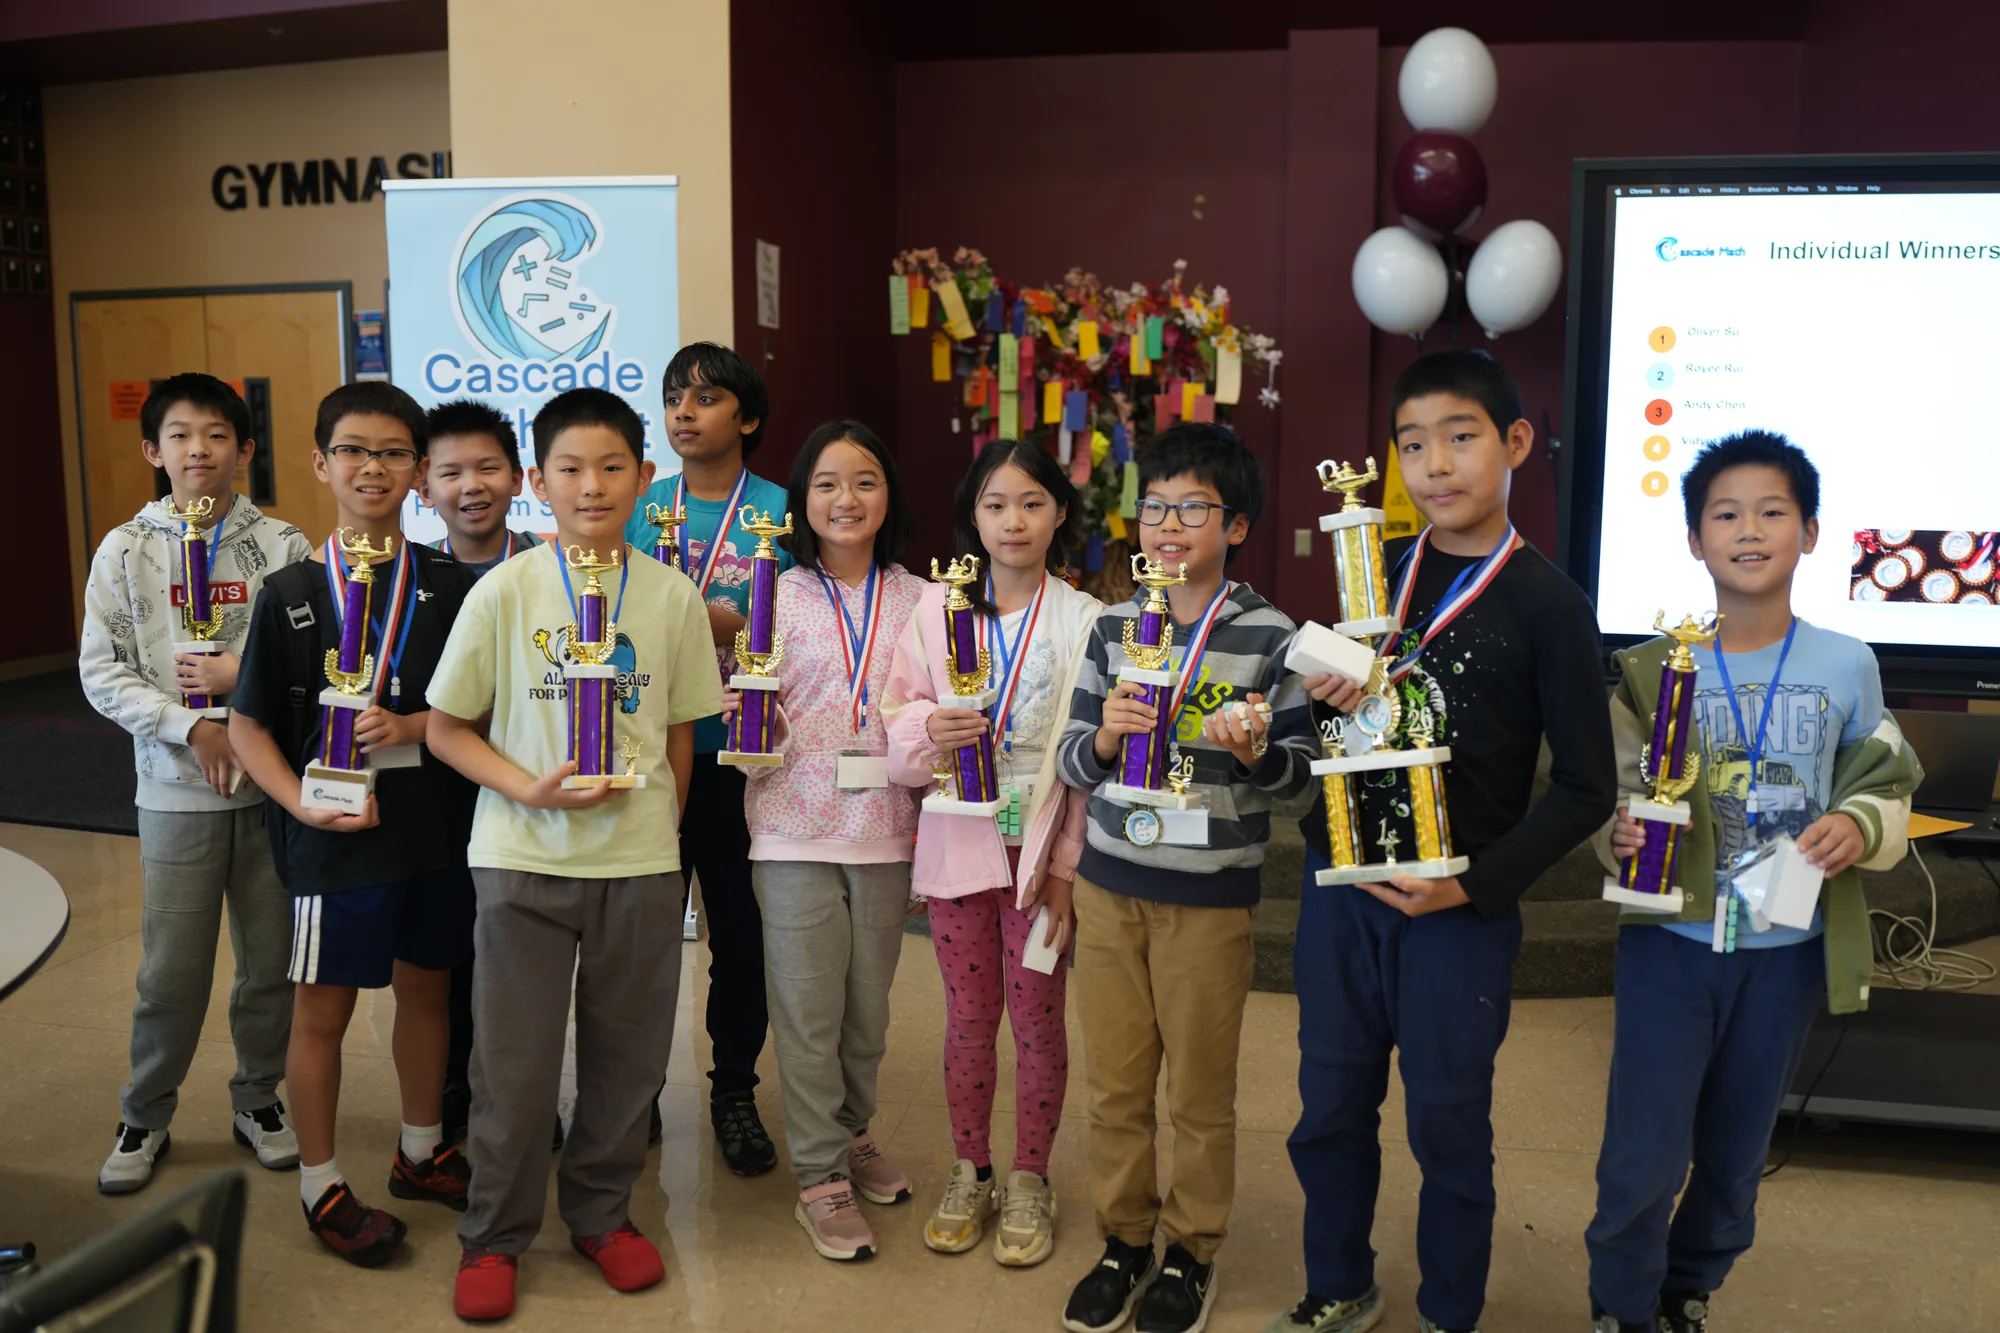
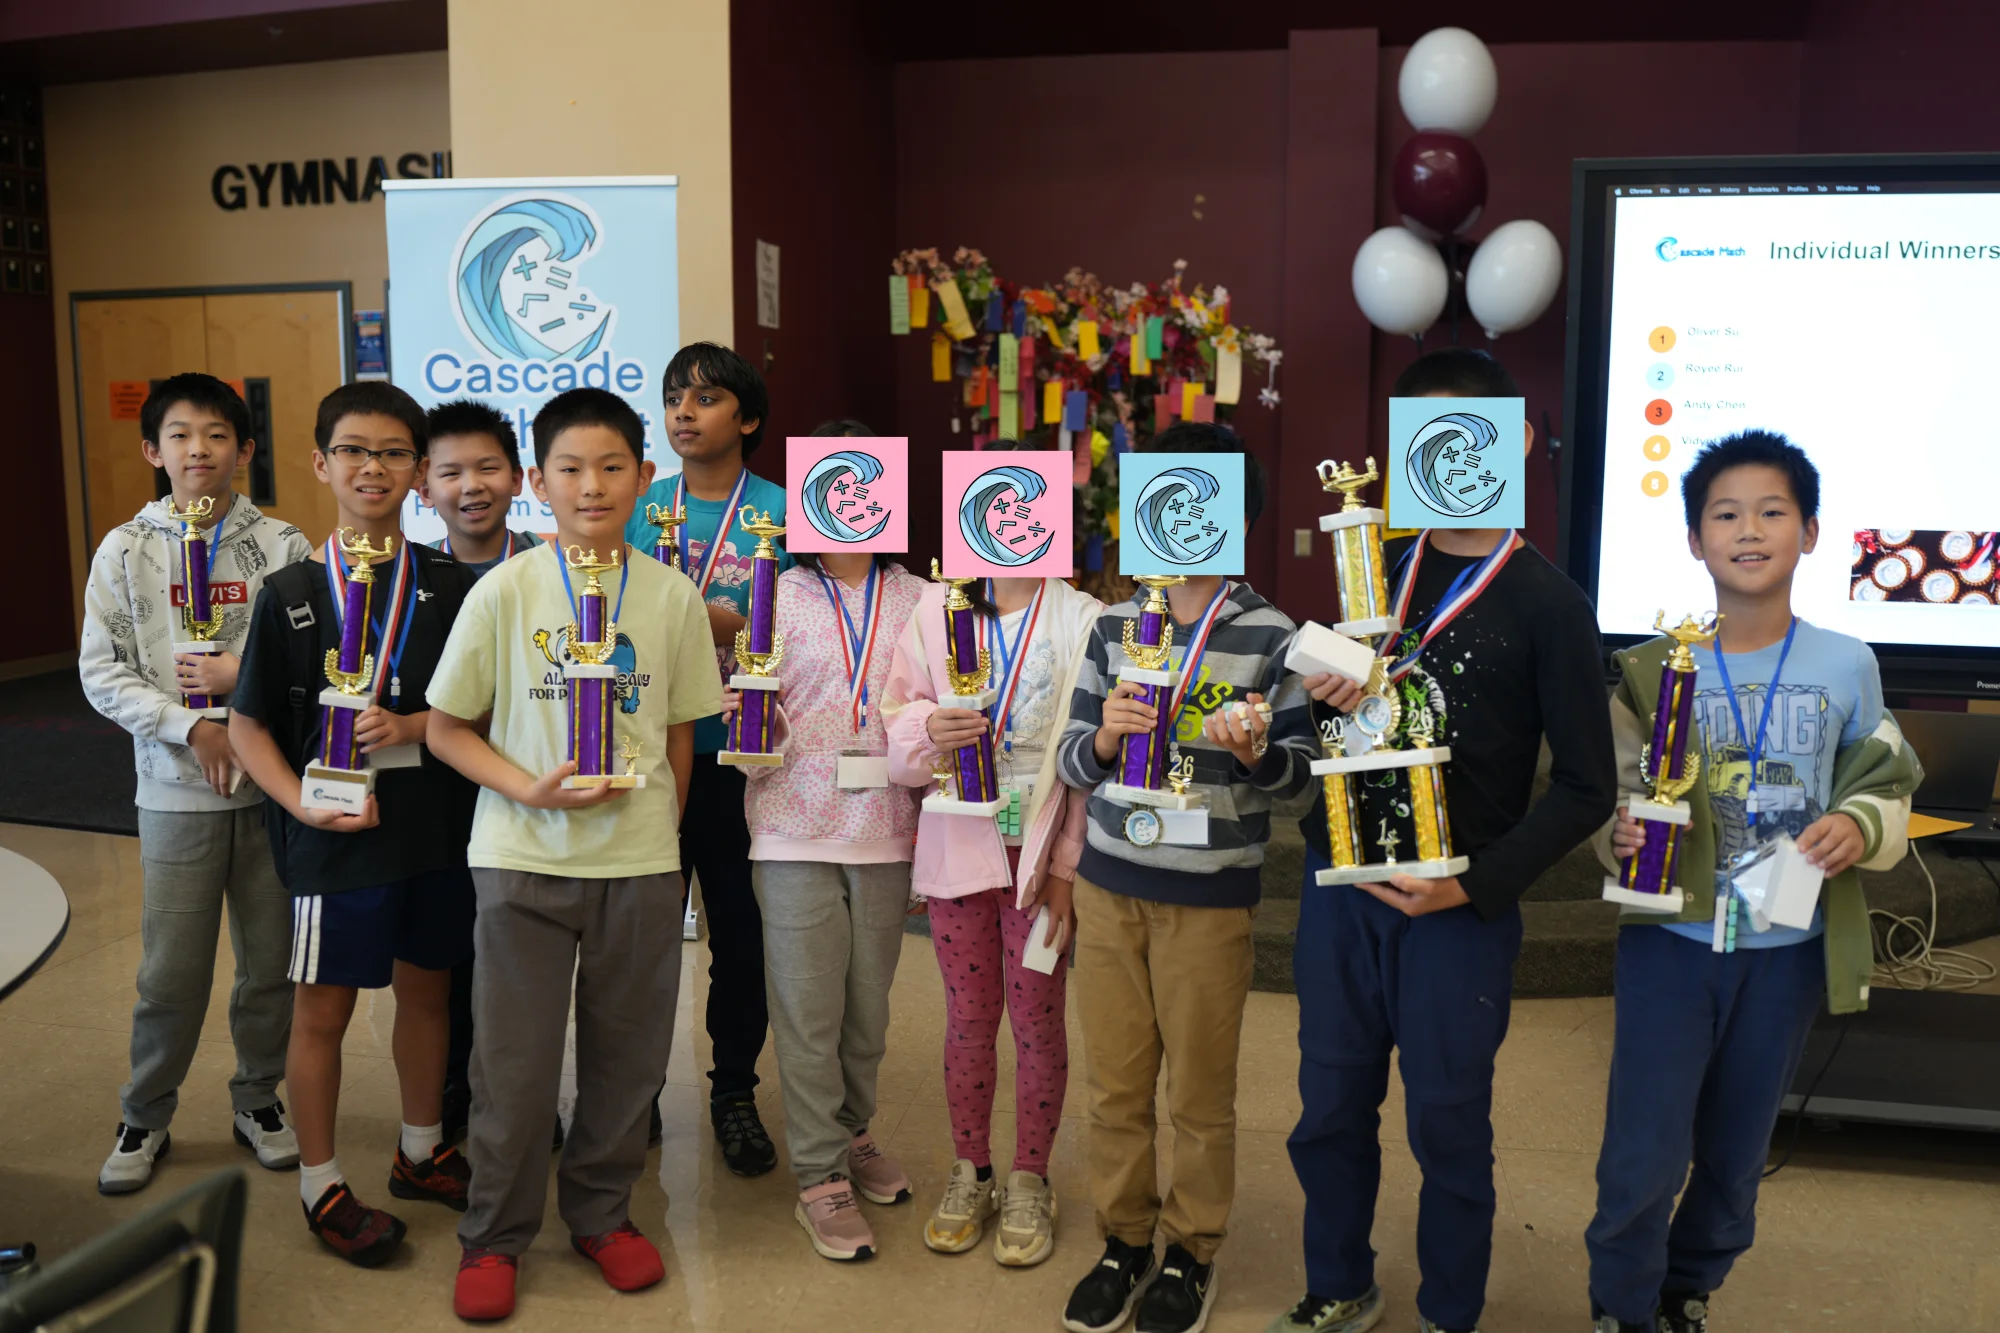
update gallery

Changed region(s): [[0.372, 0.3076, 0.62, 0.4306], [0.682, 0.2768, 0.775, 0.3998]]

diff --git a/src/pages/AboutPage.tsx b/src/pages/AboutPage.tsx
@@ -16,7 +16,7 @@ export function AboutPage() {
         aria-labelledby="about-heading"
       >
         <div
-          className="absolute inset-0 -z-20 bg-[url('/assets/cmf26/89.webp')] bg-cover bg-center"
+          className="absolute inset-0 -z-20 bg-[url('/assets/cmf26/89.webp')] bg-cover bg-[position:center_30%]"
           aria-hidden="true"
         />
         <div className="absolute inset-0 -z-10 bg-night/78 max-[700px]:bg-night/72" aria-hidden="true" />
